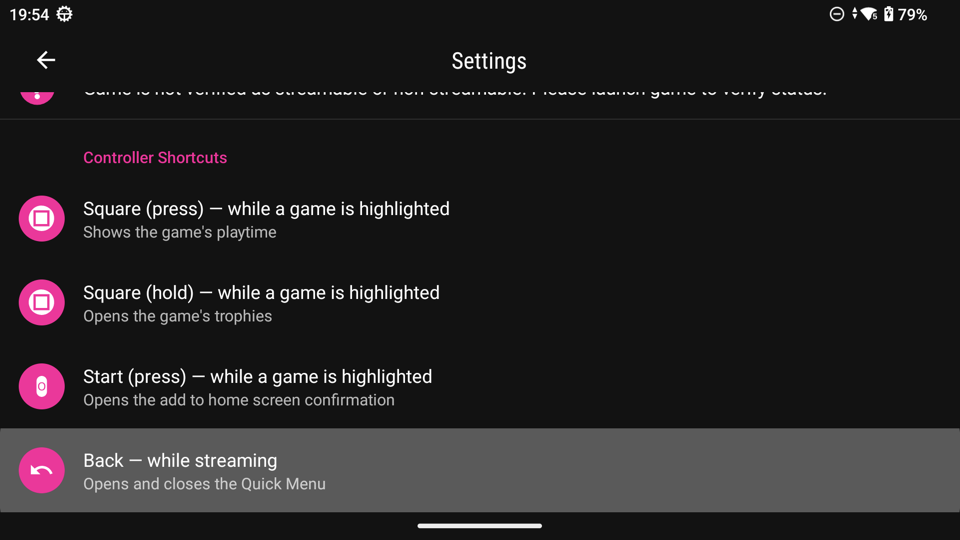
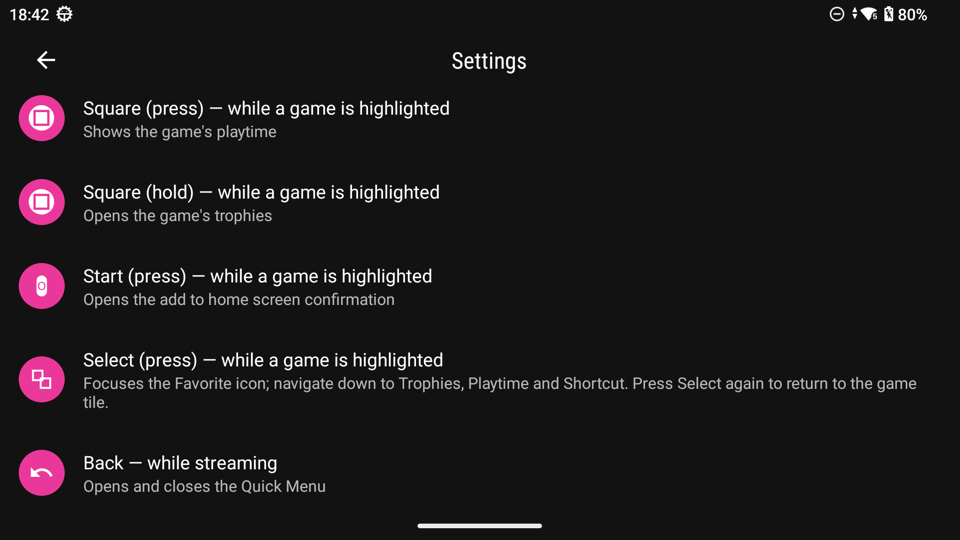
Add Trophy Comparison screenshot to README, resize Settings 8
Trophy Comparison gets its own section in the Screenshots list,
between Trophies and Trophy Unlocked Notification. Both new images
resized from the raw 1920x1080 screenshot down to 960x540 to match
every other image in these two folders.

diff --git a/README.md b/README.md
@@ -206,6 +206,11 @@ Full trophy list per game, with progress, rarity, and unlock status.
 
 <img src="readme%20assets/Trophies/Trophies.jpg" width="600">
 
+### Trophy Comparison
+Compare your trophy progress against a friend, game by game, from the main menu.
+
+<img src="readme%20assets/Trophy%20Comparison/Trophy%20Comparison.png" width="600">
+
 ### Trophy Unlocked Notification
 An in-stream toast pops up the moment you unlock a trophy, without interrupting gameplay.
 
